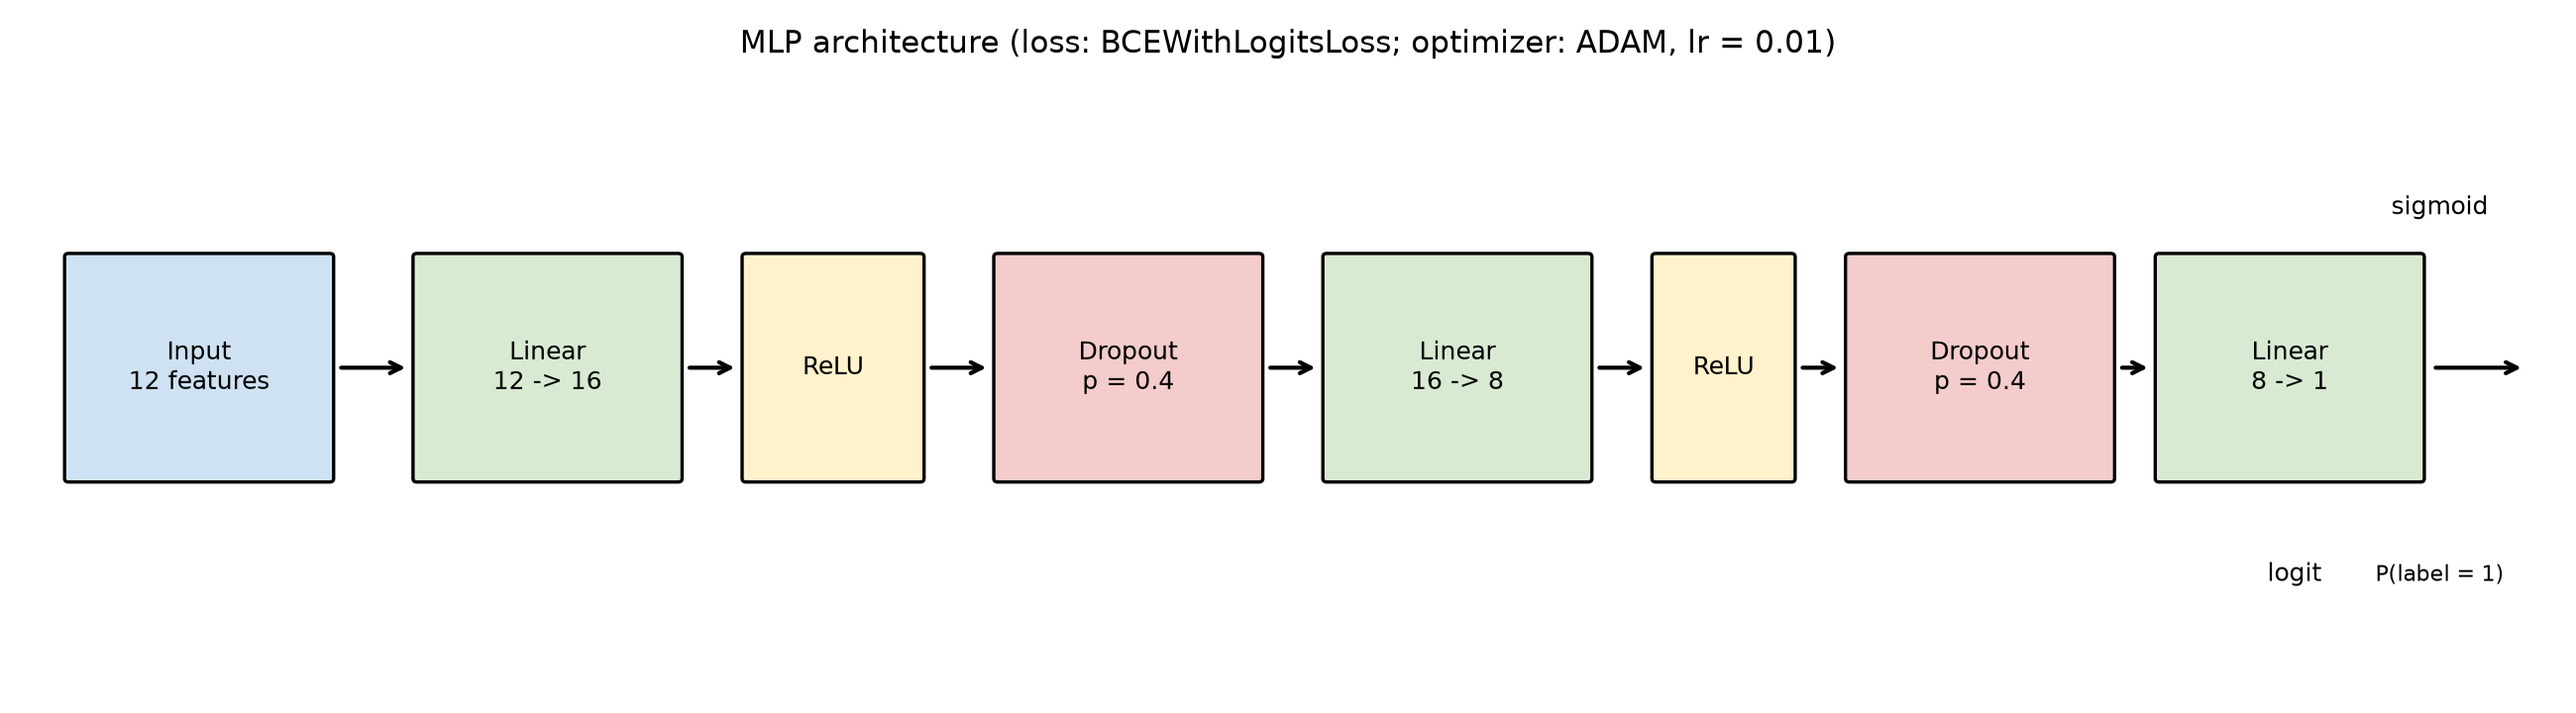
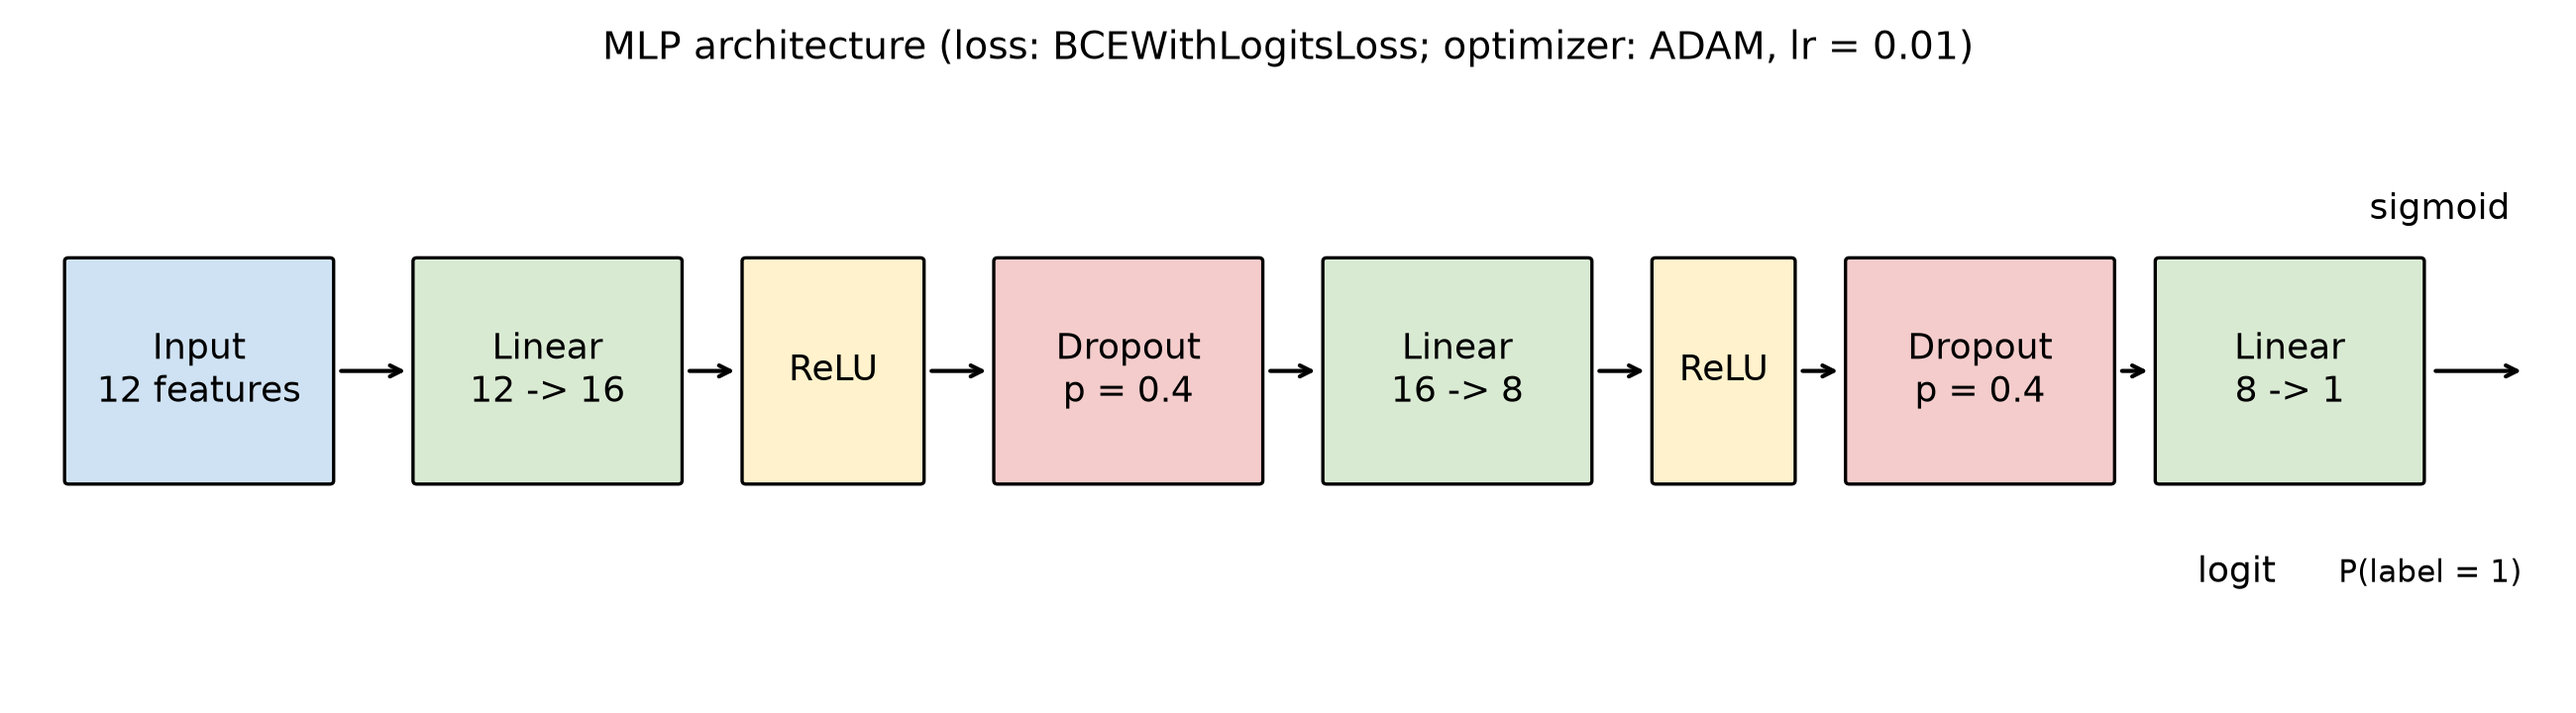
fix(models): enlarge architecture diagram text for the report

diff --git a/src/models/plots.py b/src/models/plots.py
@@ -27,7 +27,7 @@ N_FEATURES = 12
 def _box(ax, x, y, w, h, text, color):
     ax.add_patch(FancyBboxPatch((x, y), w, h, boxstyle="round,pad=0.02",
                                 fc=color, ec="black", lw=1.2))
-    ax.text(x + w / 2, y + h / 2, text, ha="center", va="center", fontsize=9)
+    ax.text(x + w / 2, y + h / 2, text, ha="center", va="center", fontsize=13)
 
 
 def _arrow(ax, x0, x1, y):
@@ -59,13 +59,13 @@ def plot_architecture(cfg: dict) -> None:
     for i in range(len(boxes) - 1):
         x_end = boxes[i][0] + widths[i]
         _arrow(ax, x_end + 0.03, boxes[i + 1][0] - 0.03, y + h / 2)
-    ax.text(11.7, 0.6, "logit", ha="center", fontsize=9)
+    ax.text(11.4, 0.6, "logit", ha="center", fontsize=13)
     _arrow(ax, 12.4, 12.9, y + h / 2)
-    ax.text(12.45, 2.75, "sigmoid", ha="center", fontsize=9)
-    ax.text(12.45, 0.6, "P(label = 1)", ha="center", fontsize=8)
+    ax.text(12.45, 2.75, "sigmoid", ha="center", fontsize=13)
+    ax.text(12.4, 0.6, "P(label = 1)", ha="center", fontsize=11)
     ax.set_title("MLP architecture (loss: BCEWithLogitsLoss; "
                  f"optimizer: {cfg['optimizer'].upper()}, lr = {cfg['lr']})",
-                 fontsize=11)
+                 fontsize=14)
     fig.tight_layout()
     fig.savefig(FIG_DIR / "model_architecture.png", dpi=200)
     plt.close(fig)
